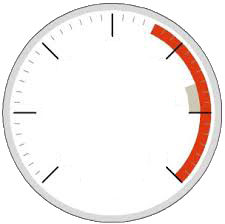
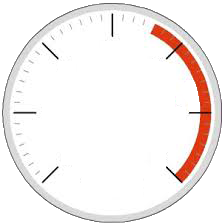
Section 4th Iteration

diff --git a/src/animation_generation/animation_elements/stages_image.py b/src/animation_generation/animation_elements/stages_image.py
@@ -86,7 +86,28 @@ def __add_stage(
     img = plt.imread(os.path.join(IMG_DIRECTORY, "stages", "{}Stage-{}{}.png".format(stage_type, active_name, prev_active_name)))
     ax.imshow(img, extent=[0, 1, 0, 1], aspect='auto')
 
+    __add_gauge(ax, stage_type=stage_type)
+
     return start_x_movement * HW_ratios[stage_type] * height
+
+
+def __add_gauge(ax, perc=0., stage_type=""):
+
+    figW, figH = ax.get_figure().get_size_inches()
+    _, _, w, h = ax.get_position().bounds
+    axis_ratio = (figH * h) / (figW * w)
+
+    if stage_type == "Last":
+
+        position = [0.18, 0.88, 0.1 * axis_ratio, 0.1]
+
+    else:
+
+        position = [0.48, 0.88, 0.1 * axis_ratio, 0.1]
+
+    gauge_ax = ax.inset_axes(position)
+    gauge_ax.set_axis_off()
+    plot_gauge(gauge_ax, perc, pointer_color='0.5')
 
 
 def __calculate_best_height(axis, n_stages):
@@ -109,5 +130,5 @@ def __calculate_best_height(axis, n_stages):
 if __name__ == "__main__":
 
     fig, ax = plt.subplots(figsize=(6, 6))
-    plot_stages(ax, 1, [False])
+    plot_stages(ax, 3, [True, True, False])
     plt.show()
